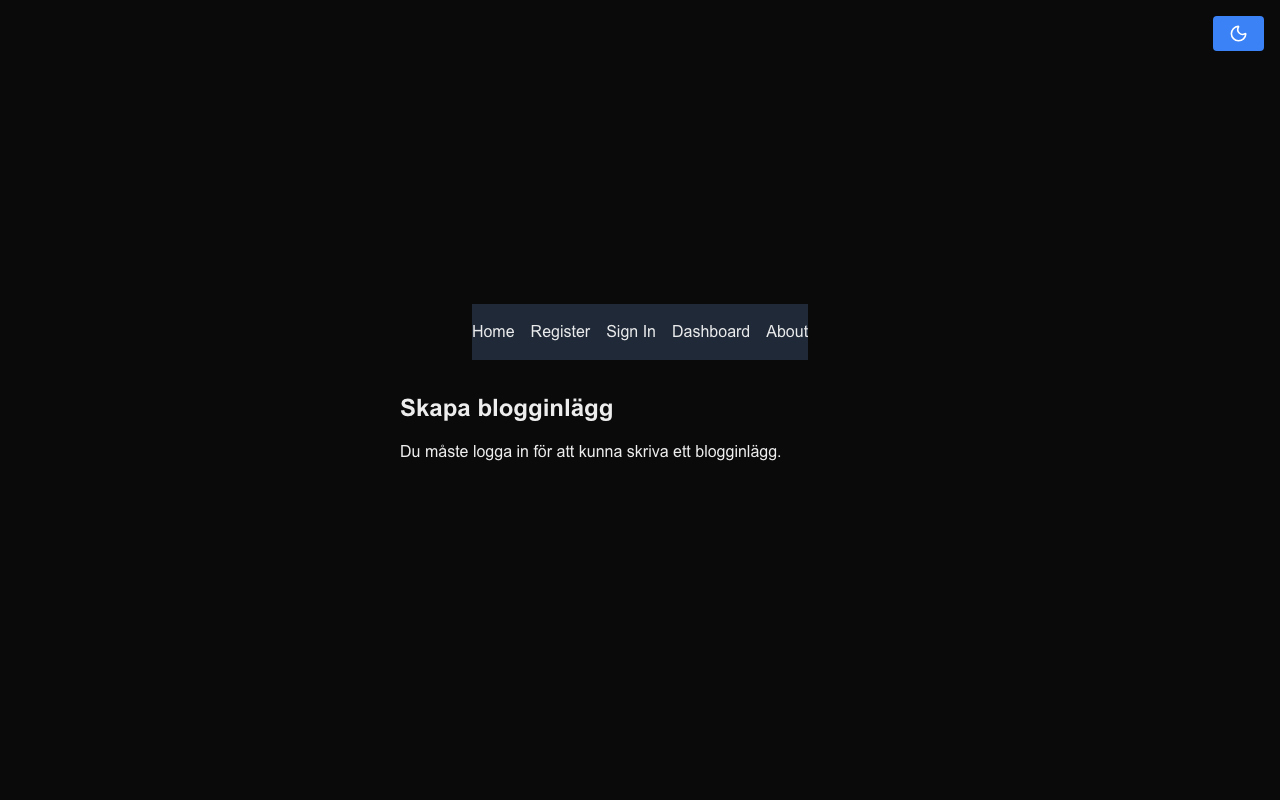
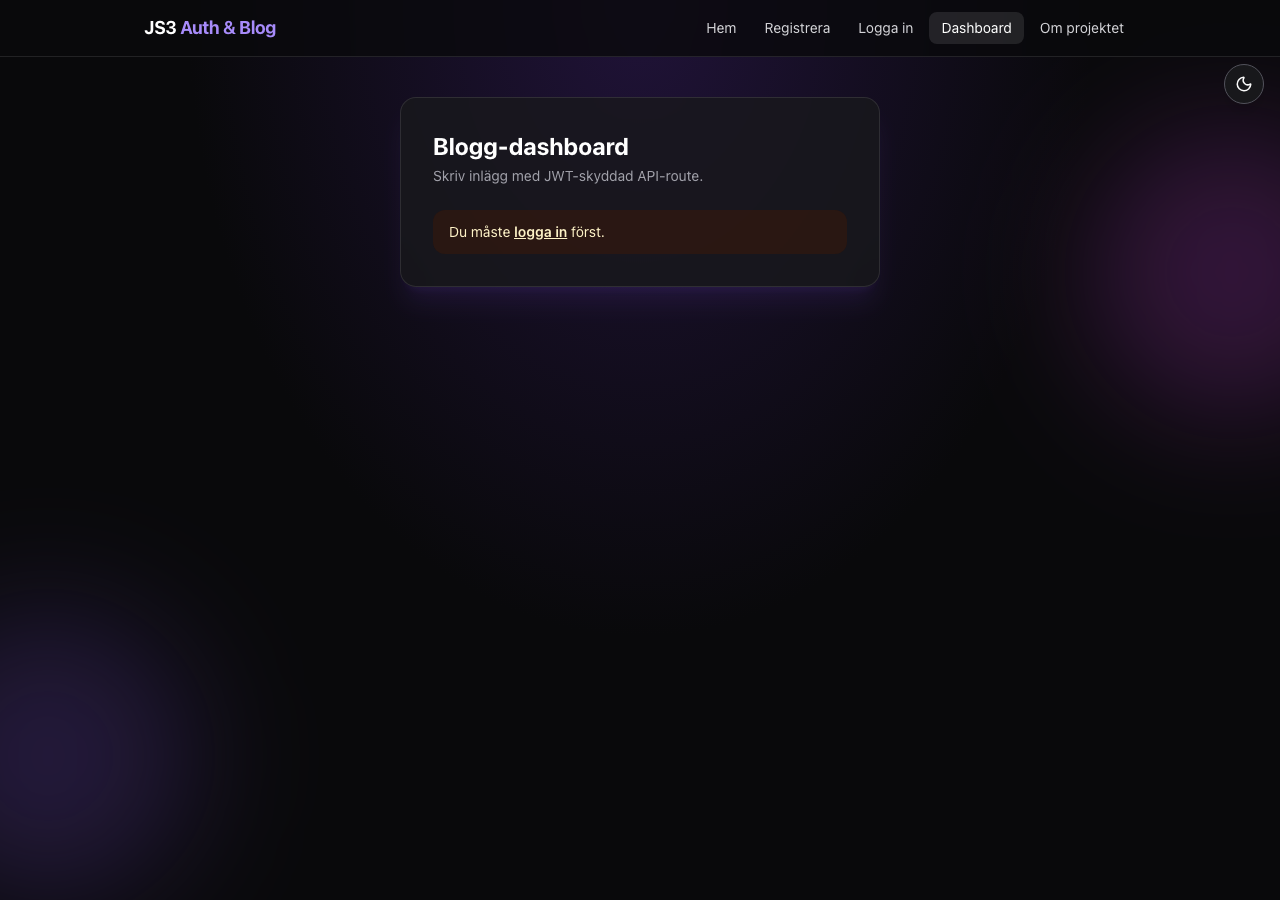
Return clear JSON when MongoDB Atlas is unreachable.
Update README screenshots for the redesigned UI.

diff --git a/src/pages/api/v1/user/index.ts b/src/pages/api/v1/user/index.ts
@@ -11,8 +11,20 @@ export default async function handler(
       return res.status(201).json({ err: 0, data: saved });
     } catch (error) {
       const message = error instanceof Error ? error.message : "Registration failed";
-      const status = message.includes("missing") || message.includes("invalid") ? 400 : 500;
-      return res.status(status).json({ err: 1, data: message });
+      const isClient =
+        message.includes("missing") ||
+        message.includes("invalid") ||
+        message.includes("exists");
+      const isDb =
+        message.includes("MongoDB") ||
+        message.includes("ENOTFOUND") ||
+        message.includes("Database") ||
+        message.includes("configured");
+      const status = isClient ? 400 : isDb ? 503 : 500;
+      const friendly = isDb
+        ? "MongoDB Atlas är inte tillgänglig. Klustret från 2023 verkar vara borttaget — skapa ett nytt cluster och uppdatera MONGODB_URI på Netlify."
+        : message;
+      return res.status(status).json({ err: 1, data: friendly });
     }
   }
 

diff --git a/README.md b/README.md
@@ -18,9 +18,9 @@ This was my **first larger project** where I learned to set up the whole system 
 
 ## Screenshots
 
-| Home | Register | Dashboard |
-|------|----------|-----------|
-| ![Home](./screenshots/home.png) | ![Sign in](./screenshots/signin.png) | ![Dashboard](./screenshots/dashboard.png) |
+| Home | Register | Sign in |
+|------|----------|---------|
+| ![Home](./screenshots/home.png) | ![Register](./screenshots/register.png) | ![Sign in](./screenshots/signin.png) |
 
 ## Course context
 
